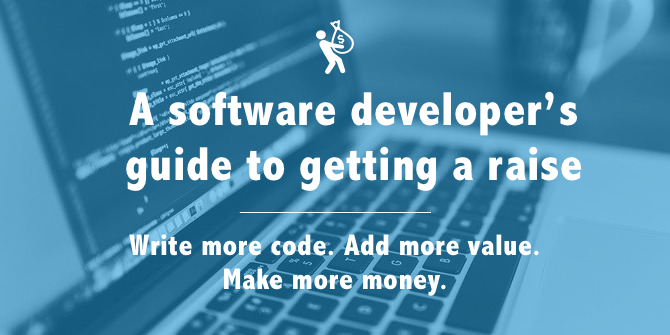
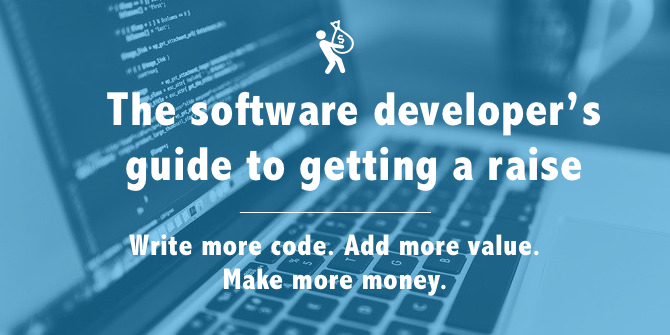
THE software devs...

Changed region(s): [[0.1493, 0.2687, 0.8955, 0.4179]]

diff --git a/_posts/2016-11-06-software-developers-how-to-get-a-raise.md b/_posts/2016-11-06-software-developers-how-to-get-a-raise.md
@@ -1,8 +1,8 @@
 ---
 layout: post
-title: A software developer’s guide to getting a raise
+title: The software developer’s guide to getting a raise
 headline: 'Software Developers: Here’s how to get a raise'
-excerpt: Here’s how to boost your lifetime earnings by hundreds of thousands of dollars by getting periodic raises.
+excerpt: Here’s how to boost your lifetime earnings by hundreds of thousands of dollars by getting periodic raises without changing jobs.
 last_modified_at: 2016-11-07
 og-image: SoftwareDevRaiseGuide.png
 ---
